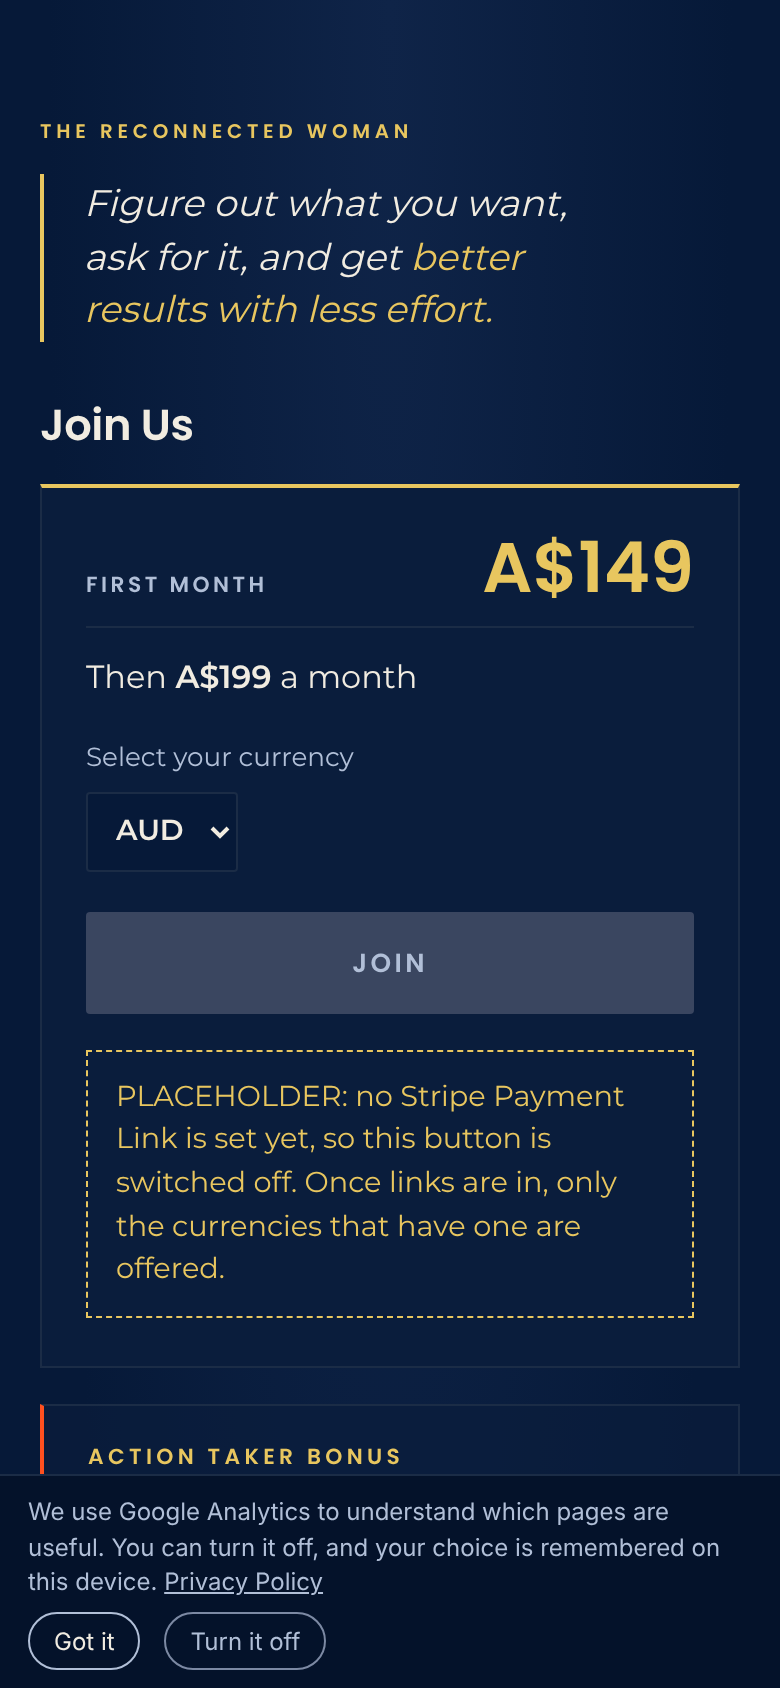
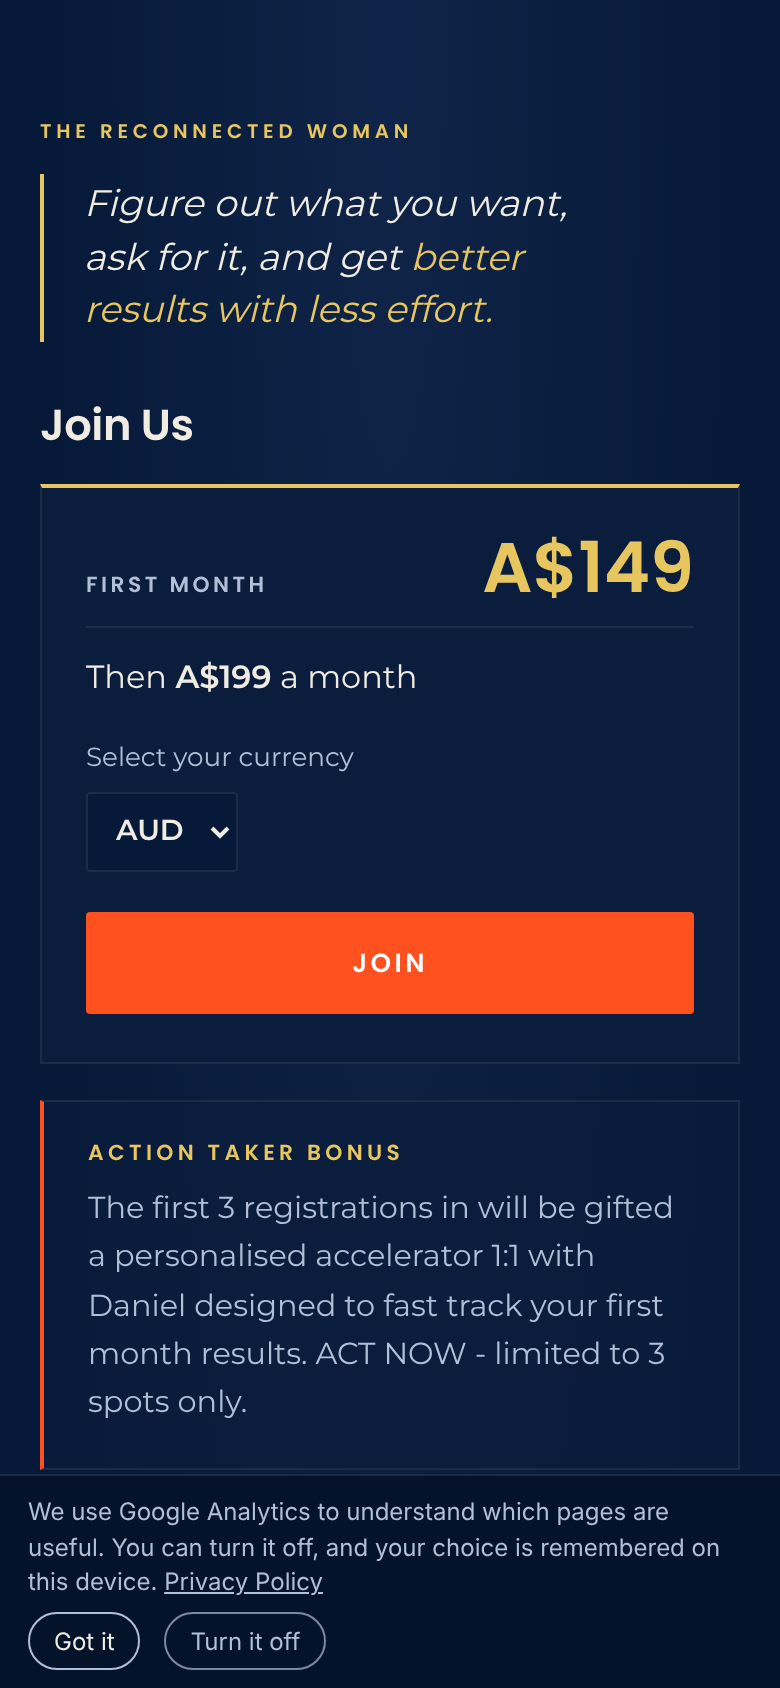
Join page: Daniel's five Stripe Payment Links (EUR, GBP, USD, AUD, ZAR)
CAD, NZD, SGD and CHF stay placeholders and are not offered. The promotion
code stays FIRSTMONTH. Not published: waits for Daniel's own yes.

Claude-Session: https://claude.ai/code/session_01CeCNG1XNZUuvNZJZtKDaWa

Changed region(s): [[0.0923, 0.6469, 0.8615, 0.8626], [0.0923, 0.5237, 0.8923, 0.6161], [0.0308, 0.6469, 0.0615, 0.8318]]

diff --git a/migration/rw_join.py b/migration/rw_join.py
@@ -24,15 +24,16 @@ EDIT THE ONE TABLE BELOW AND NOTHING ELSE FOR A PRICE OR LINK CHANGE.
 # have a link before the page can go live: it is the fallback.
 PRICES = [
     # code   written   monthly  first month  Stripe Payment Link
-    ("EUR", "€",         119,     89,  "PLACEHOLDER_STRIPE_LINK_EUR"),
-    ("AUD", "A$",        199,    149,  "PLACEHOLDER_STRIPE_LINK_AUD"),
-    ("USD", "US$",       139,     99,  "PLACEHOLDER_STRIPE_LINK_USD"),
-    ("GBP", "£",          99,     75,  "PLACEHOLDER_STRIPE_LINK_GBP"),
+    ("EUR", "€",         119,     89,  "https://buy.stripe.com/7sY7sKfniesn4ft24cdIA0y"),
+    ("GBP", "£",          99,     75,  "https://buy.stripe.com/aFaeVcdfabgbcLZ24cdIA0z"),
+    ("USD", "US$",       139,     99,  "https://buy.stripe.com/cNicN4fni2JFbHVgZ6dIA0A"),
+    ("AUD", "A$",        199,    149,  "https://buy.stripe.com/3cIbJ03EA0Bxh2f108dIA0B"),
+    ("ZAR", "R",        2299,   1699,  "https://buy.stripe.com/28EeVc2Awac76nB38gdIA0C"),
+    # Not offered until each has its own link:
     ("CAD", "CA$",       189,    139,  "PLACEHOLDER_STRIPE_LINK_CAD"),
     ("NZD", "NZ$",       239,    179,  "PLACEHOLDER_STRIPE_LINK_NZD"),
     ("SGD", "S$",        175,    129,  "PLACEHOLDER_STRIPE_LINK_SGD"),
     ("CHF", "CHF ",      109,     85,  "PLACEHOLDER_STRIPE_LINK_CHF"),
-    ("ZAR", "R",        2299,   1699,  "PLACEHOLDER_STRIPE_LINK_ZAR"),
 ]
 
 # ── THE FIRST-MONTH PROMOTION CODE ──────────────────────────────────────
